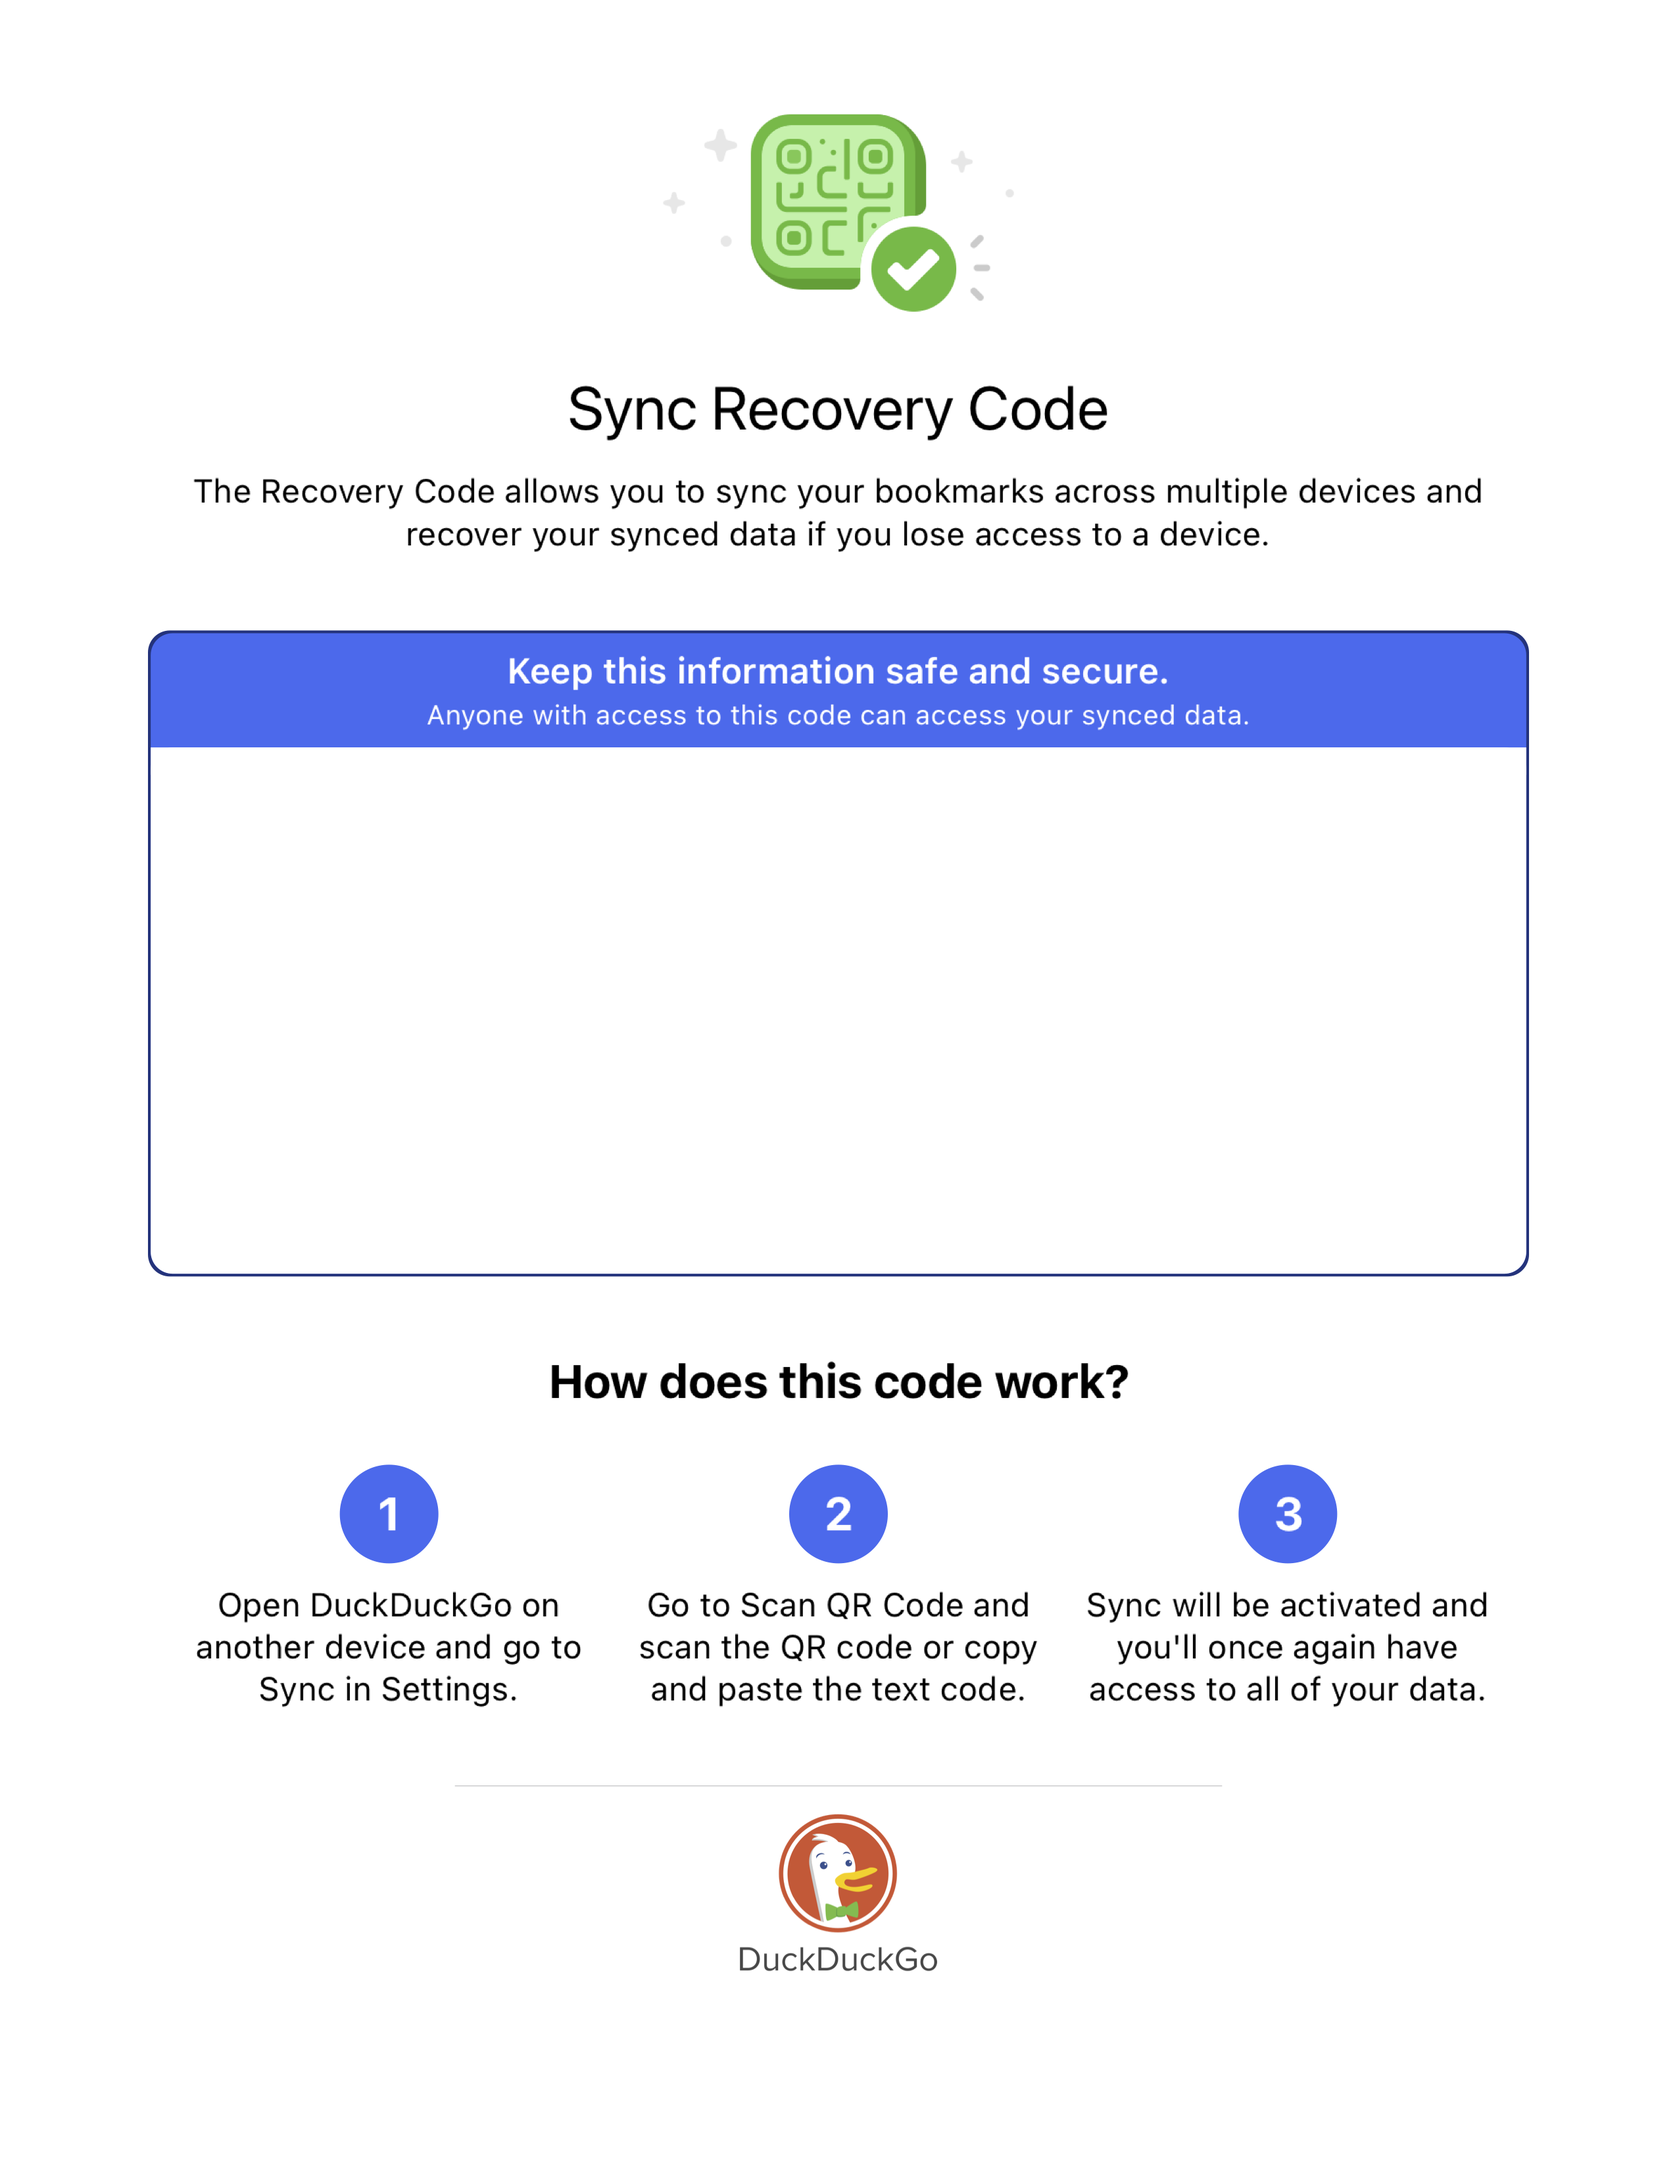
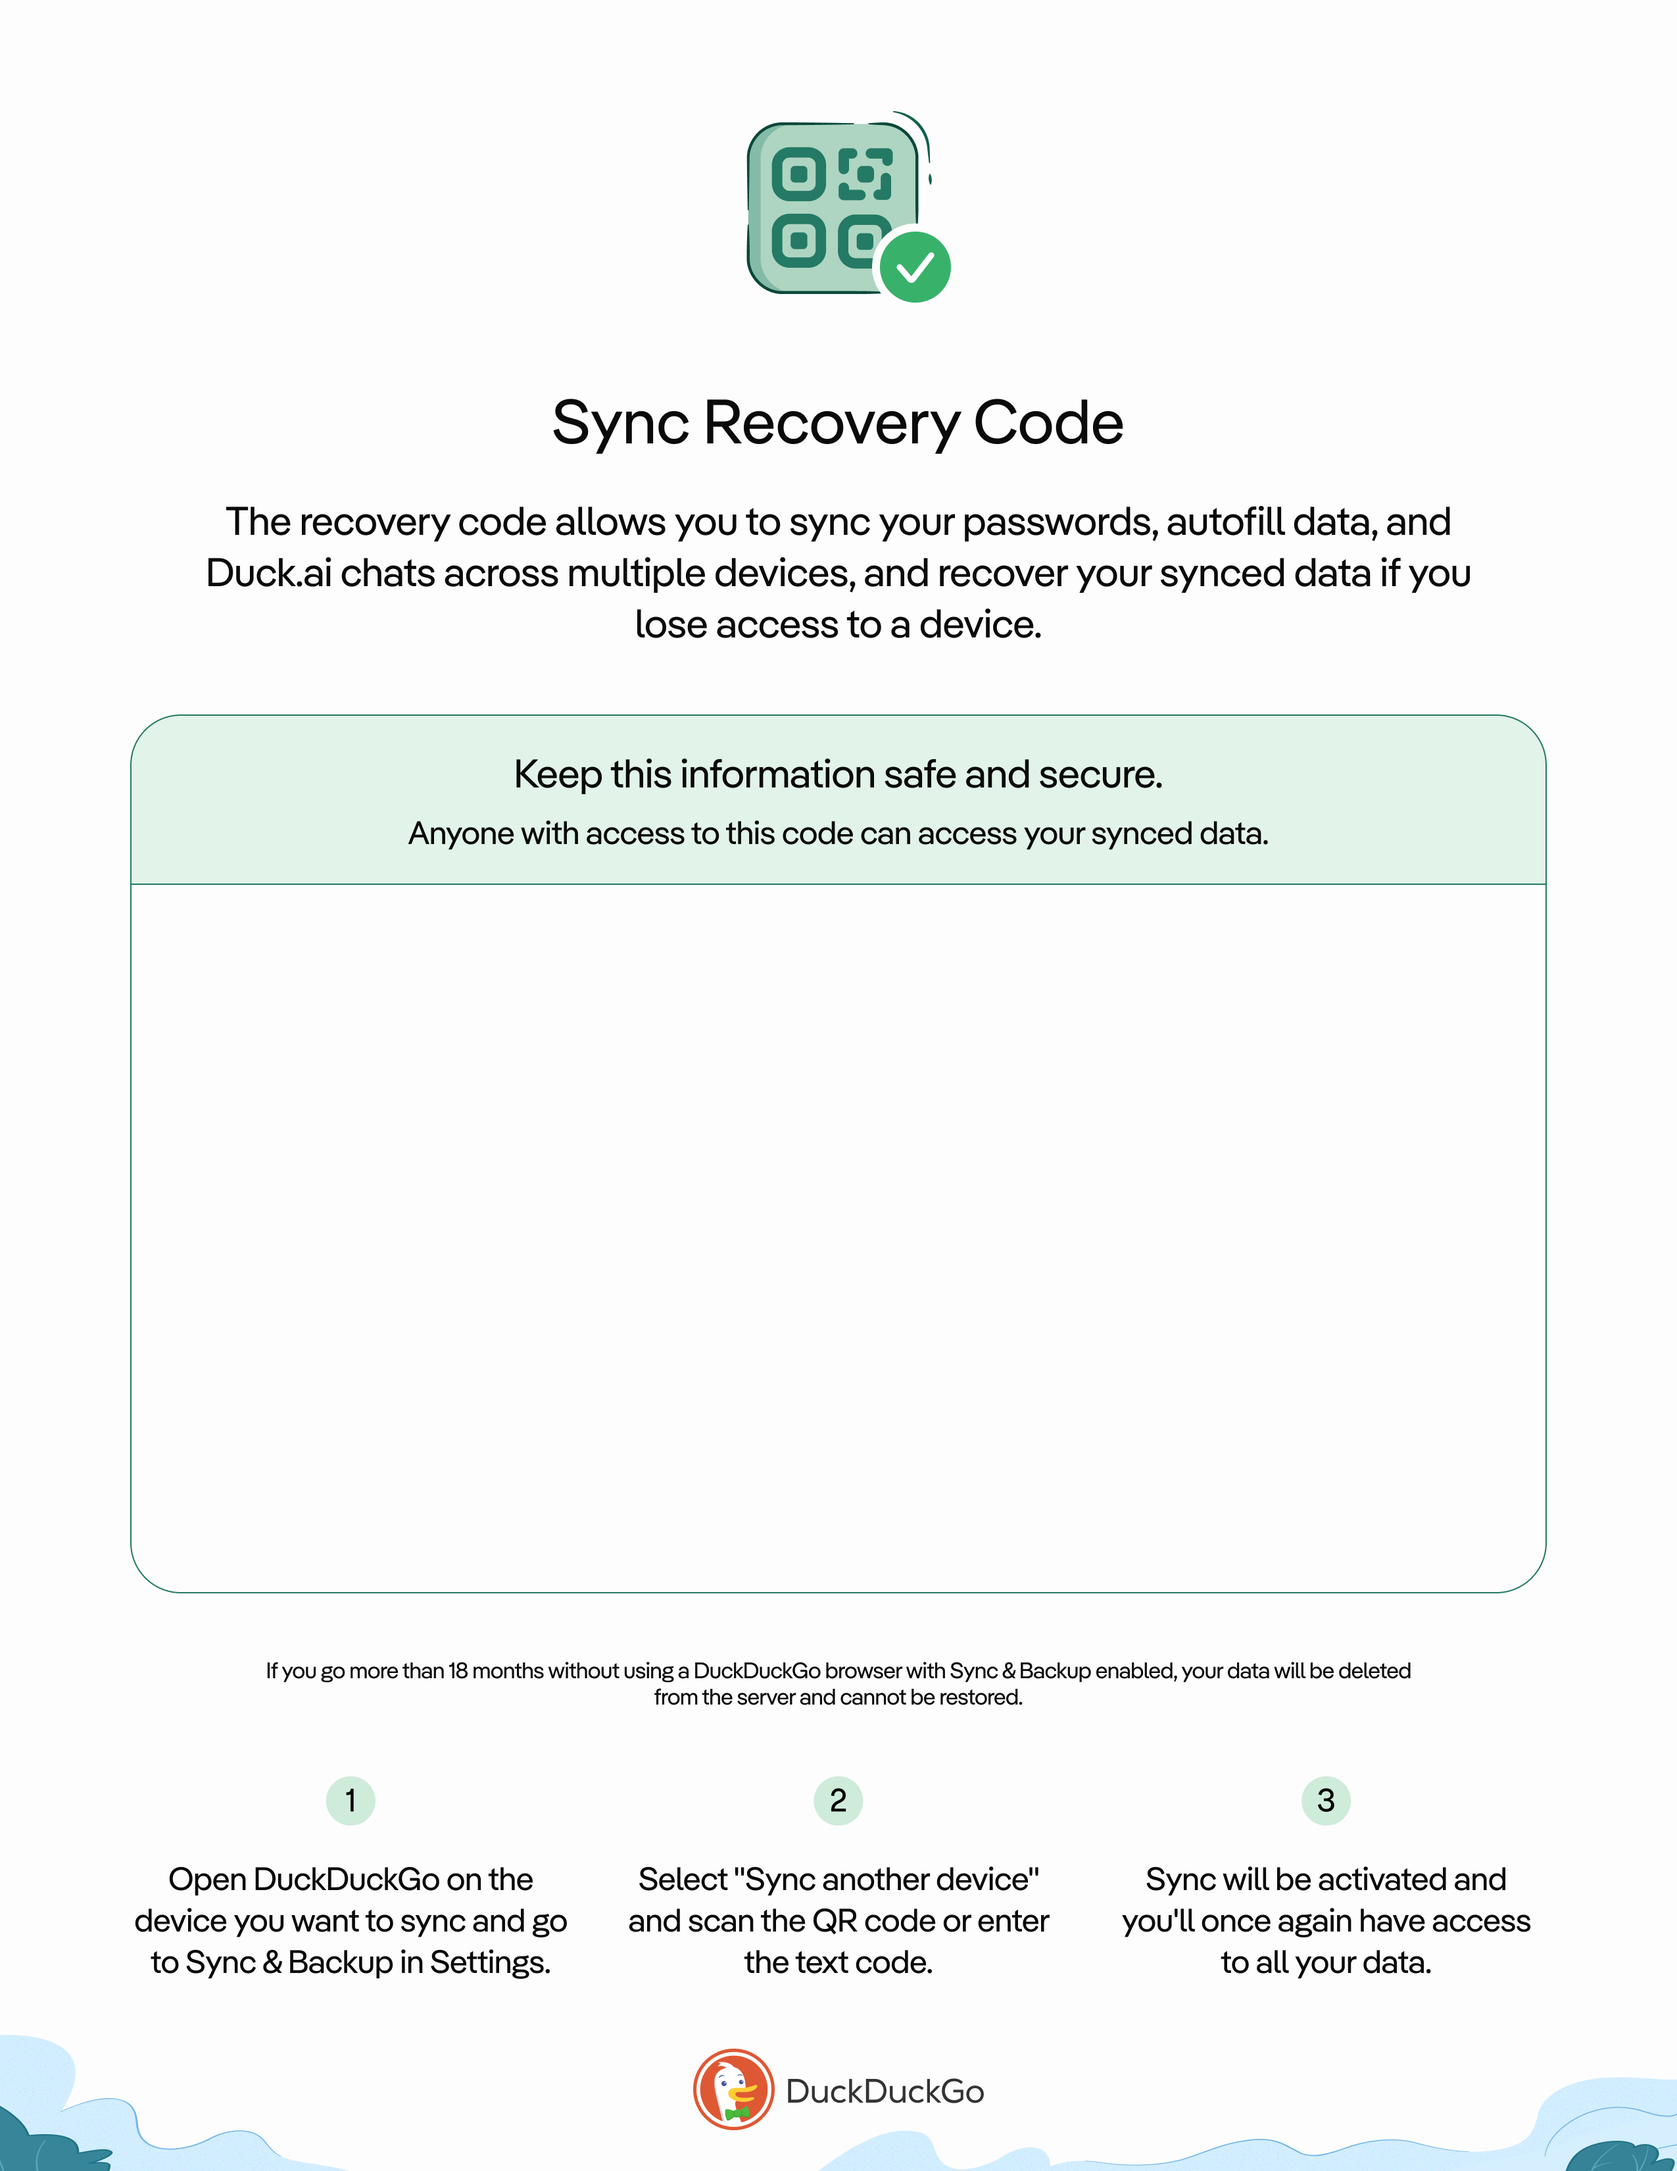
New recovery code PDF template

diff --git a/SharedPackages/BrowserServicesKit/Sources/DDGSync/RecoveryPDFGenerator.swift b/SharedPackages/BrowserServicesKit/Sources/DDGSync/RecoveryPDFGenerator.swift
@@ -134,8 +134,8 @@ public struct RecoveryPDFGenerator {
 
 private struct Helper: PDFGeneratorHelping {
 
-    let qrCodeYOffset: Int = 335
-    let textCodeYOffset: Int = -480
+    let qrCodeYOffset: Int = 252
+    let textCodeYOffset: Int = -566
     let textCodeFont = NSFont.monospacedSystemFont(ofSize: 13, weight: .regular)
     var textCodeColor = NSColor.black
 
@@ -164,8 +164,8 @@ private struct Helper: PDFGeneratorHelping {
 
 private struct Helper: PDFGeneratorHelping {
 
-    let qrCodeYOffset: Int = 280
-    let textCodeYOffset: Int = 280
+    let qrCodeYOffset: Int = 360
+    let textCodeYOffset: Int = 355
     let textCodeFont = UIFont.monospacedSystemFont(ofSize: 13, weight: .regular)
     var textCodeColor = UIColor.black
 
